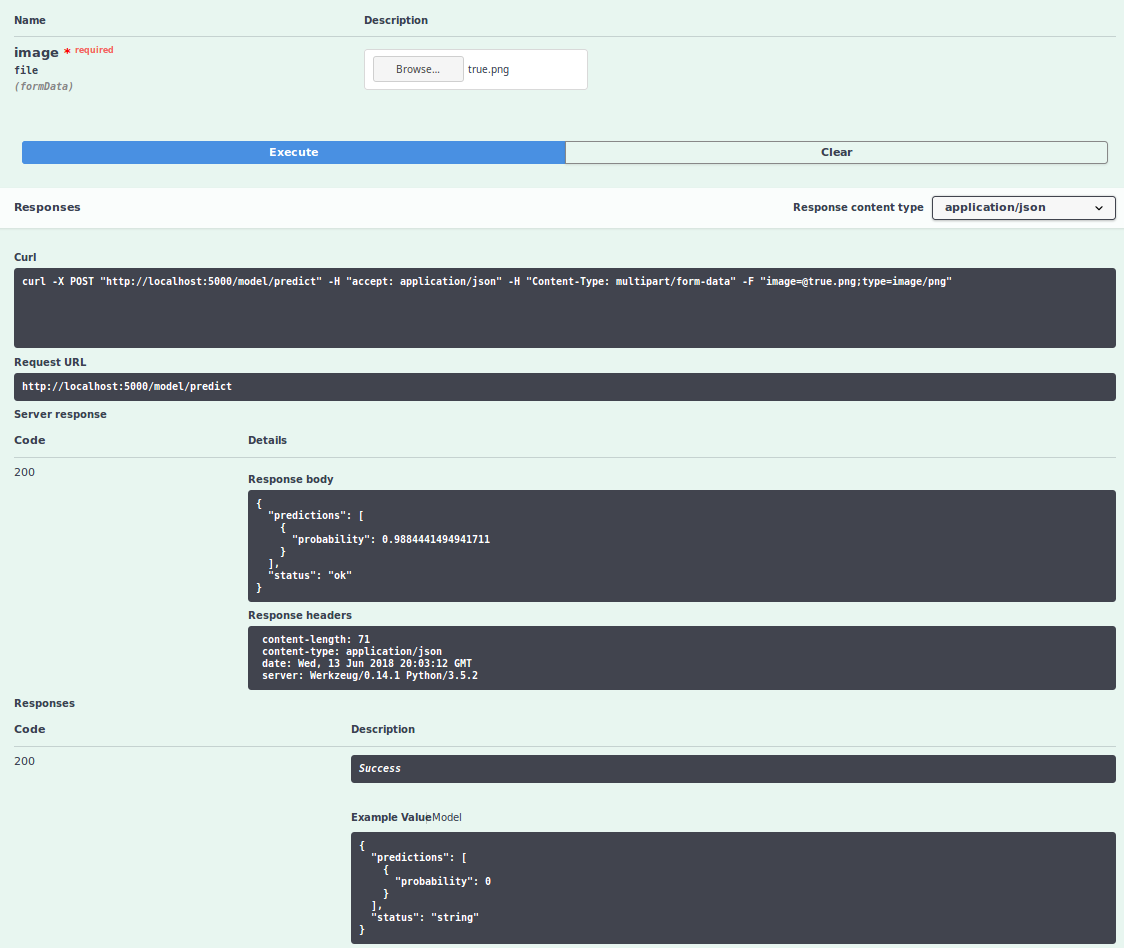
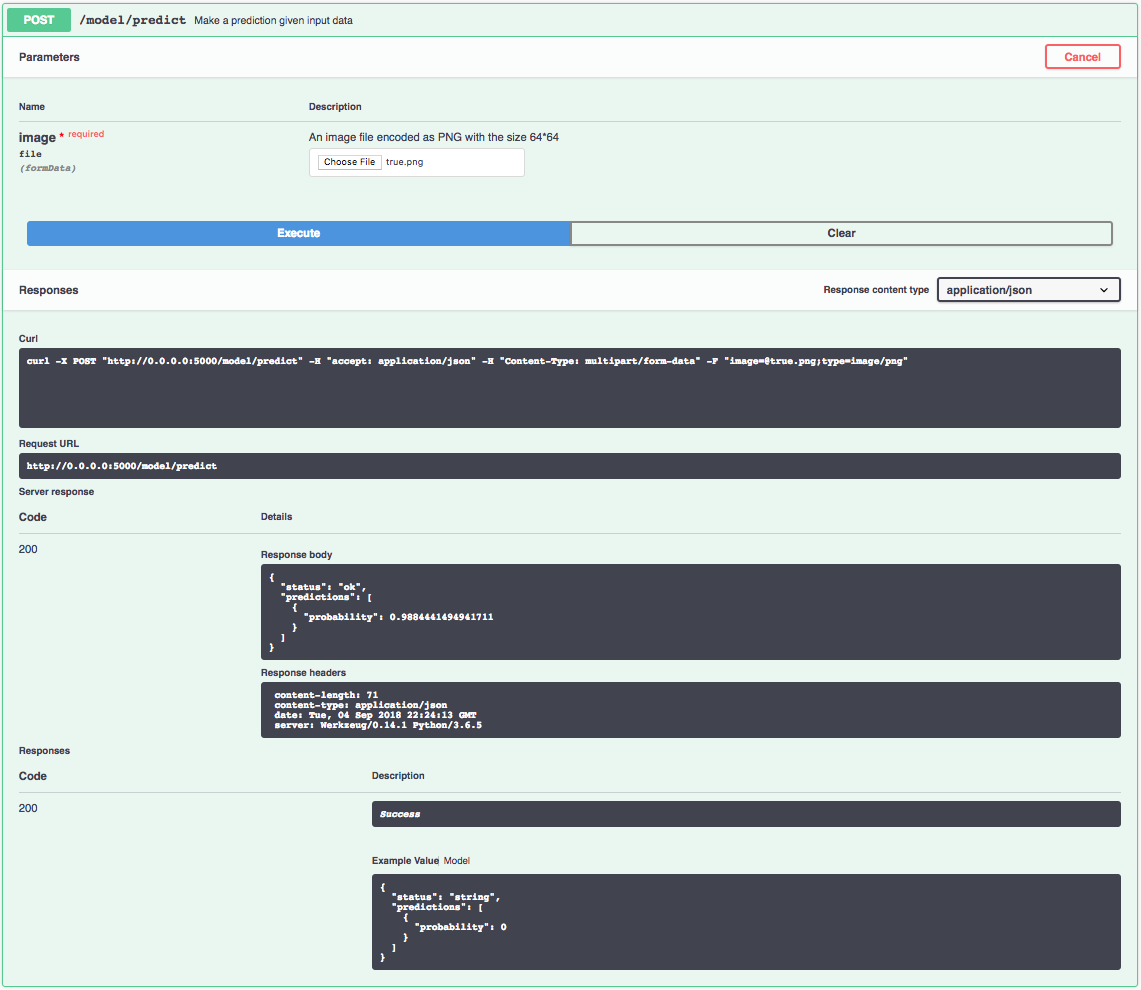
Add the request param descriptions and update the Sawgger model help text (#13)

diff --git a/api/model.py b/api/model.py
@@ -23,9 +23,8 @@ class Model(Resource):
 
 
 label_prediction = api.model('LabelPrediction', {
-    'probability': fields.Float(required=True)
+    'probability': fields.Float(required=True, description='Probability of the image containing mitosis')
 })
-
 
 predict_response = api.model('ModelPredictResponse', {
     'status': fields.String(required=True, description='Response status message'),
@@ -34,12 +33,12 @@ predict_response = api.model('ModelPredictResponse', {
 
 # set up parser for image input data
 image_parser = api.parser()
-image_parser.add_argument('image', type=FileStorage, location='files', required=True)
+image_parser.add_argument('image', type=FileStorage, location='files', required=True,
+                          help='An image file encoded as PNG with the size 64*64')
 
 
 @api.route('/predict')
 class Predict(Resource):
-
     model_wrapper = ModelWrapper()
 
     @api.doc('predict')
@@ -59,5 +58,5 @@ class Predict(Resource):
             result['status'] = 'ok'
         except ValueError as e:
             abort(400, str(e))
-            
+
         return result
